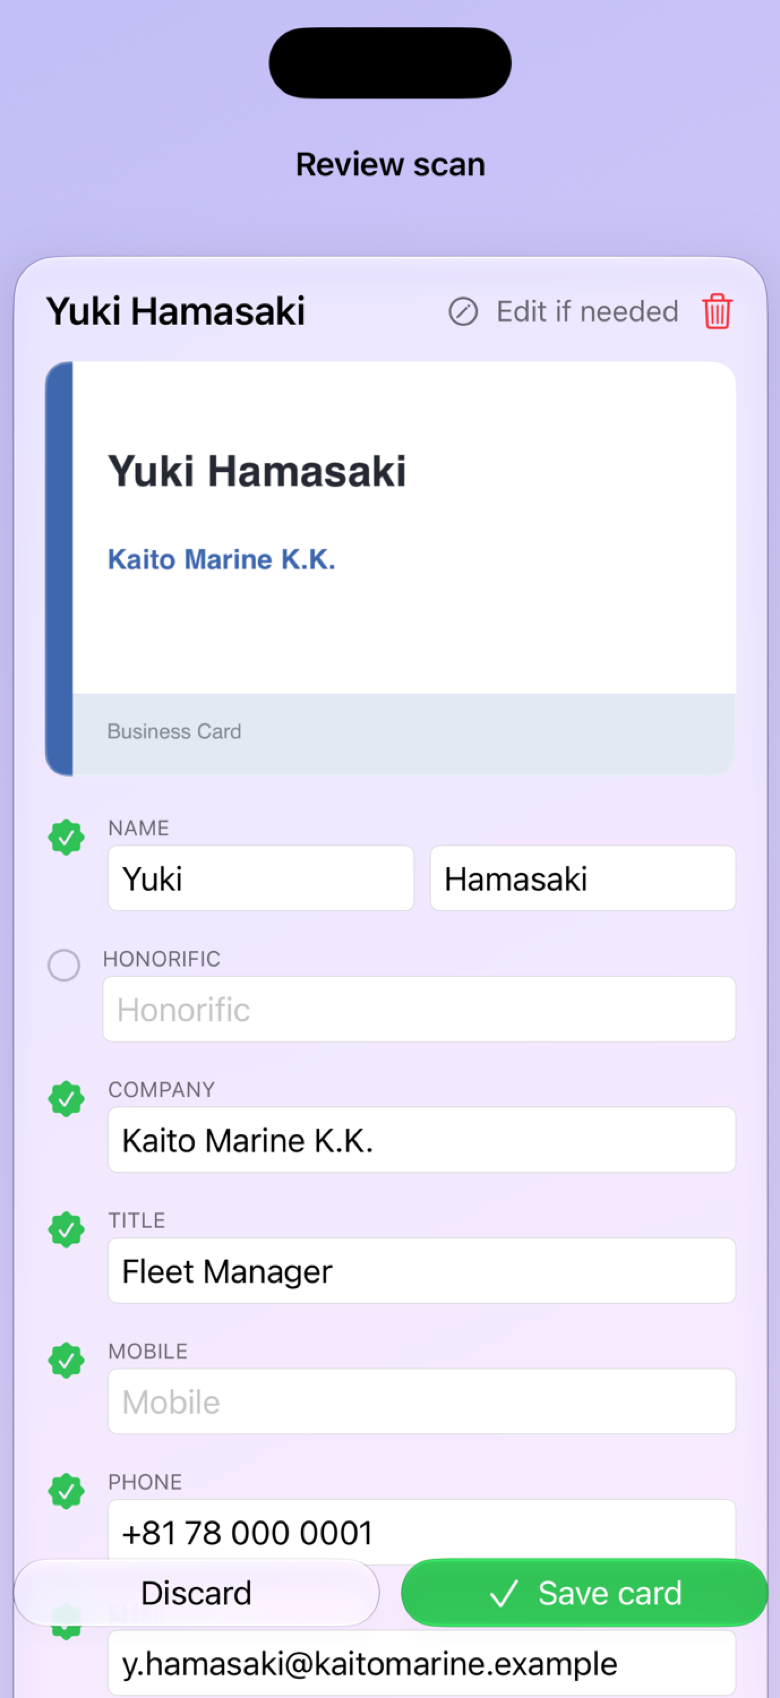
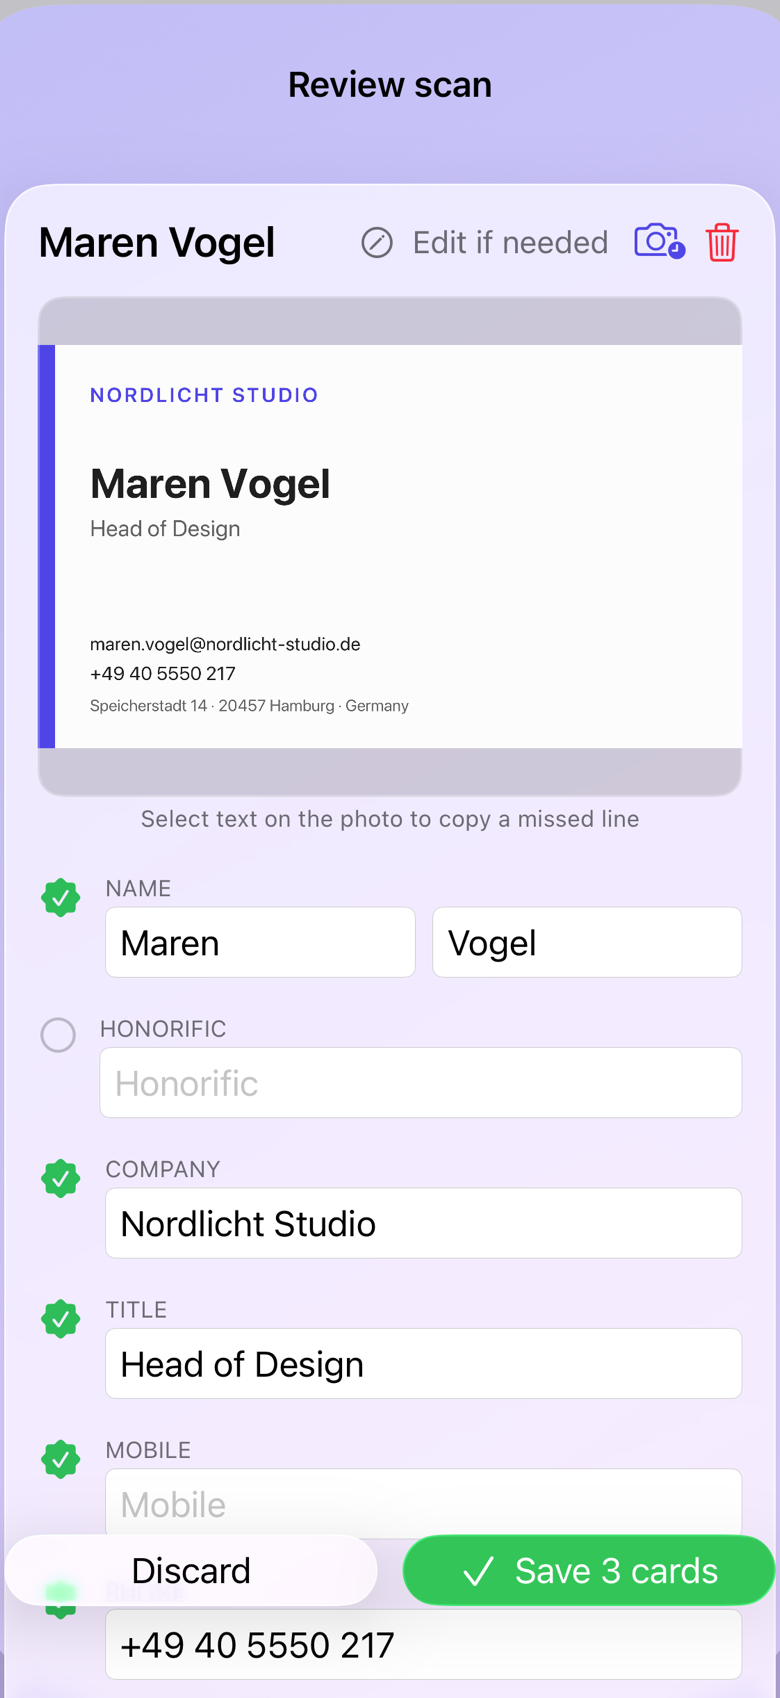
Site: 2.3 iPhone visuals — review sheet (Retake, multi-card save) + Network Stats

diff --git a/index.html b/index.html
@@ -240,7 +240,7 @@
         <div class="cell cell-stats reveal" style="--d:0.1s">
           <h3>See who you know — and where.</h3>
           <p>Contacts on a world map, industries and countries at a glance, growth over time. Search filters like <i>Industry: Finance</i>.</p>
-          <img class="stats-img" src="assets/stats.png" alt="cardlio network statistics with donut charts by industry and country" loading="lazy">
+          <img class="stats-img" src="assets/stats.png" alt="cardlio network statistics with contact counts by country and company and a growth-over-time chart" loading="lazy">
         </div>
         <div class="cell cell-addr reveal" style="--d:0.18s">
           <h3>Addresses from any country.</h3>
